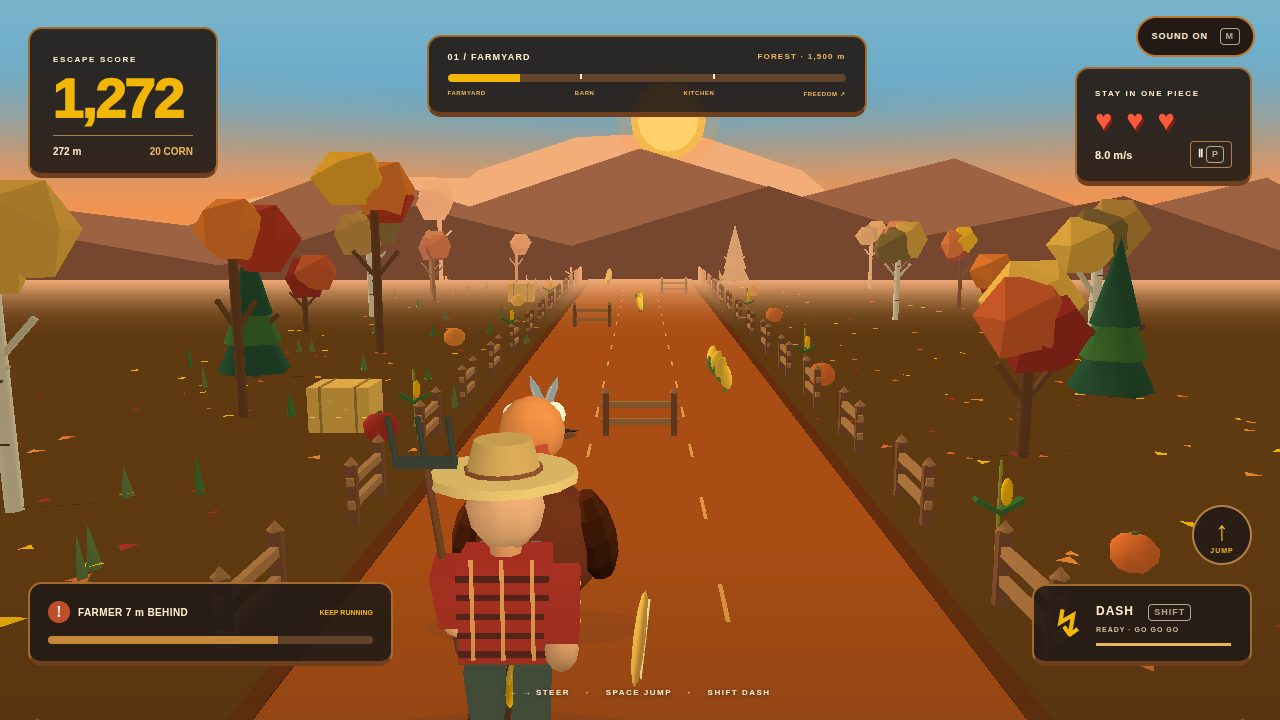
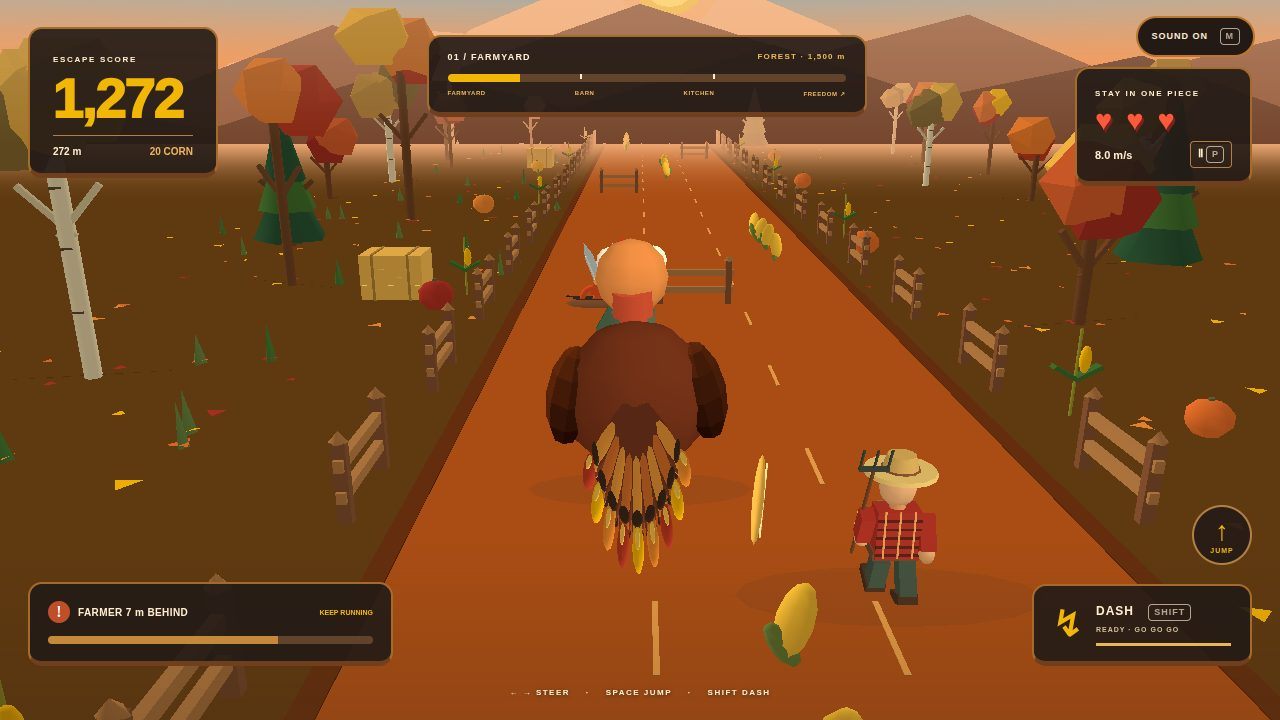
Camera framing v3: turkey fully visible, farmer behind

diff --git a/game/src/render3d.js b/game/src/render3d.js
@@ -91,7 +91,7 @@ export class Renderer3D{
   this.forest.visible=end&&w.won;if(end&&w.won){this.farmSet.visible=false;this.farmTile.visible=false;this.road.visible=false;this.ground.material=material(0x829054);}else{this.road.visible=true;this.ground.material=material(ZONES[zone].ground);this.farmSet.visible=zone!==2;this.farmTile.visible=this.farmSet.visible;}
   this.stripes.forEach((m,lane)=>{m.visible=!staged;if(!staged){for(let i=0;i<32;i++){this.stripeDummy.position.set(lane===0?-1.4:1.4,.035,14-i*5+w.distance%5);this.stripeDummy.scale.set(.075,.015,1.5);this.stripeDummy.updateMatrix();m.setMatrixAt(i,this.stripeDummy.matrix);}m.instanceMatrix.needsUpdate=true;}});
   if(staged){const aspect=innerWidth/innerHeight;this.camera.position.set(9,5.6,16);this.camera.lookAt(-.9,1.85,-1);this.bird.visible=true;this.bird.position.set(3.3,end?2.4:0,0);this.bird.scale.setScalar(title?1.8:1.1);this.bird.rotation.set(0,title?-.5+t*.19:-.25,end?.25:0);this.chaser.visible=end&&!w.won;this.chaser.position.set(3.1,0,-.3);this.chaser.scale.setScalar(1.65);this.chaser.rotation.y=-.25;animateTurkey(this.bird,t,false,1,this.deterministic);animateFarmer(this.chaser,t,true);this.birdShadow.position.set(3.3,.04,0);this.birdShadow.scale.setScalar(1.6);this.farmerShadow.visible=false;if(end&&w.won){this.bird.position.set(3.3,0,0);this.bird.rotation.y=-.6;this.bird.scale.setScalar(1.8);}if(aspect<1)this.camera.position.x=12;
-  }else{this.camera.position.set(0,6.4,15.5);this.camera.lookAt(0,1.6,-15);this.bird.position.set(w.x,w.y,2);this.bird.rotation.set(0,Math.PI,-clamp((w.targetX-w.x)*.05,-.2,.2));this.bird.scale.setScalar(1.22);this.bird.visible=!(w.invulnerable>0&&Math.floor(t*12)%2===0);animateTurkey(this.bird,t,true,turkeyTailOpen(w),this.deterministic);this.chaser.visible=true;const fz=3.5+w.farmer*.24,fx=w.x+clamp((w.targetX-w.x)*.15,-.35,.35);this.chaser.position.set(fx,0,fz);this.chaser.scale.setScalar(1);this.chaser.rotation.y=Math.PI;animateFarmer(this.chaser,t);this.birdShadow.position.set(w.x,.04,2);this.birdShadow.scale.setScalar(1-w.y*.13);this.farmerShadow.visible=true;this.farmerShadow.position.set(this.chaser.position.x,.04,fz);}
+  }else{this.camera.position.set(w.x,6.4,15.5);this.camera.lookAt(w.x,1.6,0);this.bird.position.set(w.x,w.y,2);this.bird.rotation.set(0,Math.PI,-clamp((w.targetX-w.x)*.05,-.2,.2));this.bird.scale.setScalar(1.35);this.bird.visible=!(w.invulnerable>0&&Math.floor(t*12)%2===0);animateTurkey(this.bird,t,true,turkeyTailOpen(w),this.deterministic);this.chaser.visible=true;const fz=3.5+w.farmer*.24,fx=w.x+3.2;this.chaser.position.set(fx,0,fz);this.chaser.scale.setScalar(.52);this.chaser.rotation.y=Math.PI;animateFarmer(this.chaser,t);this.birdShadow.position.set(w.x,.04,2);this.birdShadow.scale.setScalar(1-w.y*.13);this.farmerShadow.visible=true;this.farmerShadow.position.set(this.chaser.position.x,.04,fz);}
   const near=w.entities.filter(e=>!staged&&!e.done&&e.at>w.distance-10&&e.at<w.distance+105);const counts=new Map();
   for(const e of near){
    if(e.type==='scissors'){
